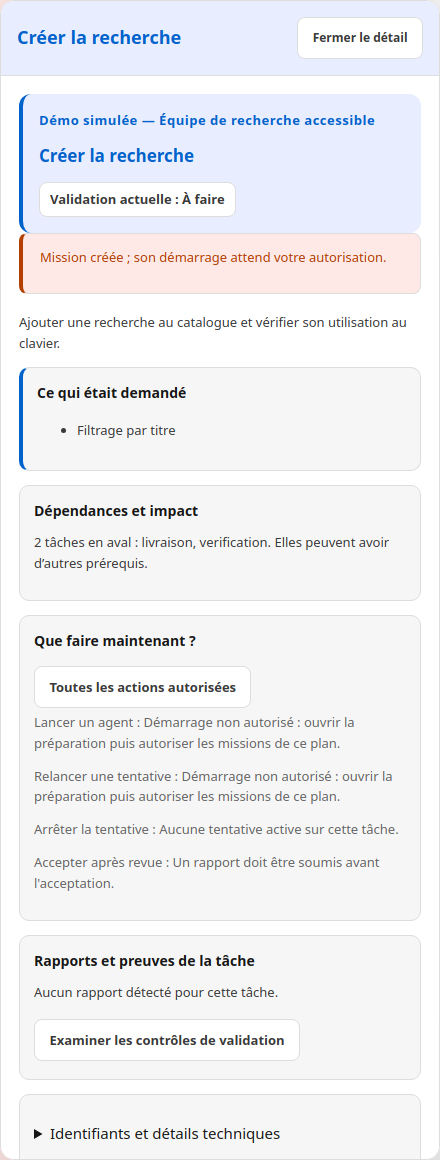
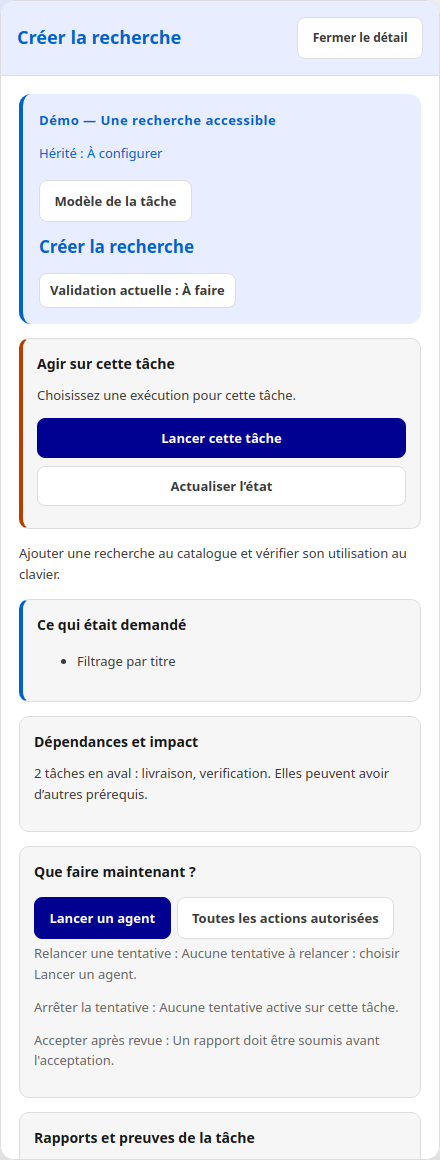
Refresh French and English user guides with current screenshots

Changed region(s): [[0.0295, 0.0931, 0.975, 0.931], [0.0591, 0.9621, 0.6205, 0.9931]]

diff --git a/README.md b/README.md
@@ -10,6 +10,18 @@ Swarm est un outil local de coordination d’agents de développement, avec une 
 
 [Commencer](#démarrer-en-local) · [Captures](#voir-le-parcours) · [Organisation des agents](#qui-fait-quoi) · [Documentation](#documentation) · [Licence](#licence)
 
+## Première utilisation
+
+1. **Installer et ouvrir** : suivre [l’installation](INSTALL.md), puis ouvrir le lien de session affiché au lancement.
+2. **Connecter une IA** : ouvrir « IA et connexions » et choisir les fournisseurs disponibles dans votre environnement.
+3. **Préparer le besoin** : préciser le résultat attendu, le périmètre et les critères ; relire le plan proposé.
+4. **Autoriser et lancer** : vérifier les rôles, les espaces et les limites. L’adoption d’un plan ne lance pas à elle seule les agents.
+5. **Suivre et examiner** : ouvrir le graphe puis le détail d’une tâche. Un processus terminé n’est pas encore un résultat validé.
+
+→ [Guide illustré : les étapes, les boutons et les blocages](GUIDE-UTILISATEUR.md)
+
+Swarm reste expérimental. Consultez les [essais réalisés et leurs limites](docs/COMMUNITY-QUALIFICATION.md) avant de lui confier une mission importante.
+
 ## Ce que vous pouvez faire
 
 | Votre besoin | Ce que propose Swarm | Pourquoi c’est utile |
@@ -97,32 +109,31 @@ Commencez avec vos mots : le besoin, les contraintes et les critères de réussi
 
 ### 2. Visualiser l’équipe et ses flèches
 
-Cette seconde démonstration utilise une **organisation simulée en pause** : un orchestrateur, un sous-responsable, trois tâches d’exécutants et un vérificateur indépendant. Aucun fournisseur n’est lancé, aucun résultat n’est présenté comme validé.
+Cette mission manuelle montre **trois tâches à préparer**, reliées par leurs dépendances. Les rôles ne sont pas encore configurés : le bandeau « Rôle à préciser » le signale. Ce n’est pas une équipe autonome prête à démarrer.
 
-- **Bleu : orchestrateur**, chargé de coordonner la mission.
-- **Orange : sous-responsable**, chargé ici du périmètre accessibilité.
-- **Cartes de tâches : exécutants**, chargés de produire les livrables.
-- **Vert : vérificateur indépendant**, chargé d’examiner les rapports.
-- **Flèches pleines : dépendances entre tâches.**
-- **Flèches pointillées : responsabilités et remise au vérificateur.**
+![Trois tâches à préparer et leurs flèches de dépendance](docs/screenshots/agents-horizontal.png)
 
-![Équipe en vue horizontale : orchestrateur, sous-responsable, exécutants et vérificateur reliés par des flèches](docs/screenshots/agents-horizontal.png)
+[Ouvrir le graphe en grand](docs/screenshots/agents-horizontal.png)
 
-[Ouvrir le graphe horizontal en grand](docs/screenshots/agents-horizontal.png)
+**Comment lire cet écran :**
 
-#### La même organisation en vue verticale
+1. « Créer la recherche » est le prérequis du test clavier.
+2. Le test clavier est le prérequis de la livraison.
+3. « Voir le blocage » explique pourquoi une tâche ne peut pas encore partir.
+4. « À faire » indique que le travail n’a pas commencé ; cela ne prouve ni un résultat ni sa validation.
 
-L’orientation peut être adaptée à la forme du plan. Le thème sombre conserve les couleurs des rôles et les deux types de flèches.
+#### Changer de vue sans changer le plan
 
-![Équipe en vue verticale et thème sombre, avec liens de responsabilité et dépendances](docs/screenshots/agents-vertical.png)
+Choisissez **Verticale** pour un écran étroit, ou **Liste des agents** et **Détaillées** pour lire les livrables. Les boutons **+ / −** replient une branche sans supprimer ses tâches.
 
-[Ouvrir le graphe vertical en grand](docs/screenshots/agents-vertical.png)
+![Même plan en orientation verticale et thème sombre](docs/screenshots/agents-vertical.png)
 
-#### Retrouver les rôles et les livrables en liste
+<details>
+<summary>Voir la liste détaillée</summary>
 
-La vue liste complète le graphe : elle expose les responsabilités, les tâches et leurs livrables sans suivre chaque flèche. Dans cet exemple, les tâches attendent leur autorisation de démarrage.
+![Liste des tâches et de leurs livrables](docs/screenshots/agents-liste.png)
 
-![Liste détaillée des responsables, du vérificateur et des tâches des exécutants](docs/screenshots/agents-liste.png)
+</details>
 
 #### Examiner une tâche sans quitter le pilotage
 

diff --git a/GUIDE-UTILISATEUR.md b/GUIDE-UTILISATEUR.md
@@ -28,6 +28,21 @@ En cas de refus du fournisseur : [comprendre et traiter une attente de quota IA]
 
 Pour les garanties et leurs limites : [contrat du moteur et design Cursor](docs/architecture/CURSOR-ENGINE-CONTRACT.md).
 
+## Le parcours en un coup d’œil
+
+| Vous voulez… | Ouvrez… | Vérifiez avant de continuer |
+|---|---|---|
+| Choisir l’IA | IA et connexions | Le modèle, son accès et l’environnement d’exécution |
+| Expliquer le besoin | Préparer avec l’IA | Objectif, contraintes et critères concrets |
+| Démarrer | Pilotage, puis Lancer la mission | Rôles, dossier, limites et autorisation |
+| Comprendre l’attente | La tâche, puis son diagnostic | Cause, personne ou agent qui doit agir, prochaine action |
+| Voir les sorties | Voir l’agent travailler, si une tentative existe | Heure du signal et résultat réellement reçu |
+| Confirmer la fin | Résultats et validations | Critères, contrôles et revue ; pas seulement la fin du processus |
+
+![Préparation : saisir un besoin et ses critères](docs/screenshots/preparation.png)
+
+Les écrans ci-dessous ont été recapturés le 29 septembre 2026 sur une instance isolée. La mission manuelle présente trois tâches **à préparer** ; les alertes de rôles manquants sont réelles. Elle ne démontre pas une exécution autonome.
+
 ## Sommaire
 
 1. [Ouvrir Swarm](#1-ouvrir-swarm)
@@ -187,7 +202,7 @@ action et qui doit agir. Consultez ensuite le graphe ou la liste.
 - Un clic ouvre les détails. **Voir l’agent travailler** ouvre sa session ;
   un double-clic sur une tâche ouvre sa session lorsqu’elle existe.
 
-![Rôles, tâches et flèches](docs/screenshots/agents-horizontal.png)
+![Tâches à préparer et flèches de dépendance](docs/screenshots/agents-horizontal.png)
 
 Dans la session, lisez l’heure, le type d’événement et le message. Les sorties
 reçues décrivent l’activité observable : elles ne donnent pas accès au raisonnement
@@ -198,6 +213,19 @@ brut du fournisseur n’est pas nécessairement conservé.
 
 **Ces captures utilisent des données de démonstration**, sans agents réels en
 cours. Les fournisseurs, missions et états de votre installation seront différents.
+
+### Adapter l’affichage
+
+![Orientation verticale en thème sombre](docs/screenshots/agents-vertical.png)
+
+Utilisez **Vue d’ensemble** pour retrouver les flèches après un zoom. Le repli masque une branche ; il ne change ni les dépendances ni l’ordre d’exécution.
+
+<details>
+<summary>Voir les livrables en liste détaillée</summary>
+
+![Liste détaillée des trois tâches de démonstration](docs/screenshots/agents-liste.png)
+
+</details>
 
 ## 6. Comprendre les états et valider
 

diff --git a/docs/en/USER-GUIDE.md b/docs/en/USER-GUIDE.md
@@ -25,6 +25,21 @@ If a provider refuses calls: [understand and handle an AI quota hold](PROVIDER-Q
 
 For guarantees and their limits: [engine contract and Cursor's design](CURSOR-ENGINE-CONTRACT.md).
 
+## Visual quick start
+
+| Goal | Where to go | What to check |
+|---|---|---|
+| Choose AI | AI and connections | Model, access and execution environment |
+| Describe the work | Prepare with AI | Objective, constraints and acceptance criteria |
+| Start | Agent cockpit, launch mission | Roles, workspaces, limits and authorization |
+| Understand a blocker | Task details and diagnosis | Cause, next action and who should act |
+| Read activity | Watch the agent work | Signal timestamp and actual output |
+| Confirm completion | Results and validation | Evidence, checks and review |
+
+Screenshots captured on 29 September 2026 using an isolated demonstration project. No agents were launched. The three manual tasks still need role configuration; their warnings are intentional.
+
+![Write the need and expected result](../screenshots/en/preparation.png)
+
 ## 1. Open the cockpit
 
 Follow the [installation instructions](INSTALL.md). Select the directory of the
@@ -82,6 +97,8 @@ connection uses its saved model for all three levels.
 When creating missions, select **AI for the planner and reviewer** separately
 from **Tool-enabled agent for workers**. The same installed provider can serve
 both purposes when its capabilities allow it.
+
+![Add an AI connection](../screenshots/en/connexion.png)
 
 ## 3. Prepare a mission
 
@@ -157,6 +174,21 @@ who acts. Then use the graph or list.
 In the session, read timestamps, event types and messages. Received output shows
 observable activity, not the model's private reasoning. Detailed capture is
 optional; without it, not all raw provider output is retained.
+
+### Read the graph and inspect a task
+
+Arrows point from the prerequisite to the dependent task. These tasks have not started; they do not demonstrate accepted results.
+
+![Tasks and dependency arrows](../screenshots/en/agents-horizontal.png)
+
+![Inspect a task and its criteria](../screenshots/en/agent-detail.png)
+
+<details>
+<summary>Vertical layout in the dark theme</summary>
+
+![Vertical dependency graph](../screenshots/en/agents-vertical.png)
+
+</details>
 
 ## 6. Understand states and validate
 

diff --git a/README.en.md b/README.en.md
@@ -9,6 +9,16 @@ It makes responsibilities, dependencies, attempts, evidence and blockers visible
 so that several agents can collaborate without treating every completed process
 as a successful result.
 
+## First run
+
+1. Follow [installation](docs/en/INSTALL.md) and open the session link printed by the server.
+2. Open **AI and connections** to configure providers available in your environment.
+3. Prepare your objective, constraints and acceptance criteria; review the proposed plan.
+4. Check roles, workspaces and limits before authorizing and launching the mission.
+5. Follow tasks and examine their evidence. A finished process is not yet a validated result.
+
+See the [illustrated user guide](docs/en/USER-GUIDE.md). Swarm is experimental; read the [qualification evidence and limitations](docs/COMMUNITY-QUALIFICATION.md).
+
 ## What it does
 
 - Prepare requirements with AI, approve a brief and review a structured plan.
@@ -55,13 +65,13 @@ reproduces every part of Cursor's final architecture.
 
 ## See the interface
 
-These screenshots use simulated demonstration data, with no real agents running.
+These screenshots were captured on 29 September 2026 with demonstration data and no AI calls. The manual mission contains three unconfigured tasks; missing-role warnings are expected. This is not a completed autonomous run.
 They illustrate the French interface; choose English from the language selector.
 
-![Preparation](docs/screenshots/preparation.png)
-![Agent roles and dependency arrows](docs/screenshots/agents-horizontal.png)
-![Vertical graph](docs/screenshots/agents-vertical.png)
-![Detailed agent view](docs/screenshots/agent-detail.png)
+![Preparation](docs/screenshots/en/preparation.png)
+![Unconfigured tasks and dependency arrows](docs/screenshots/en/agents-horizontal.png)
+![Vertical graph](docs/screenshots/en/agents-vertical.png)
+![Detailed agent view](docs/screenshots/en/agent-detail.png)
 
 ## Install
 

diff --git a/docs/screenshots/README.md b/docs/screenshots/README.md
@@ -1,0 +1,21 @@
+# Documentation screenshots
+
+Captured on 29 September 2026 from the local Swarm binary using an isolated,
+temporary project. French images are here; English images are in `en/`.
+
+Regenerate from the repository root after building `bin/swarm`:
+
+```sh
+node scripts/readme-screenshots.cjs
+node scripts/readme-screenshots.cjs --lang=en
+```
+
+The script uses Puppeteer and Chrome (`CHROME_BIN` can select another executable).
+It creates three manual tasks through the public CLI, verifies visible dependency
+arrows, captures both themes, task details, the connection form and preparation.
+It makes no AI calls, never uses the live mission database and stops its temporary
+server afterwards. Missing roles and unconfigured providers are intentional:
+these images illustrate preparation, not a completed autonomous run.
+
+No credentials or authenticated session URLs should appear in public captures.
+The English interface does not translate arbitrary user-entered identifiers.
